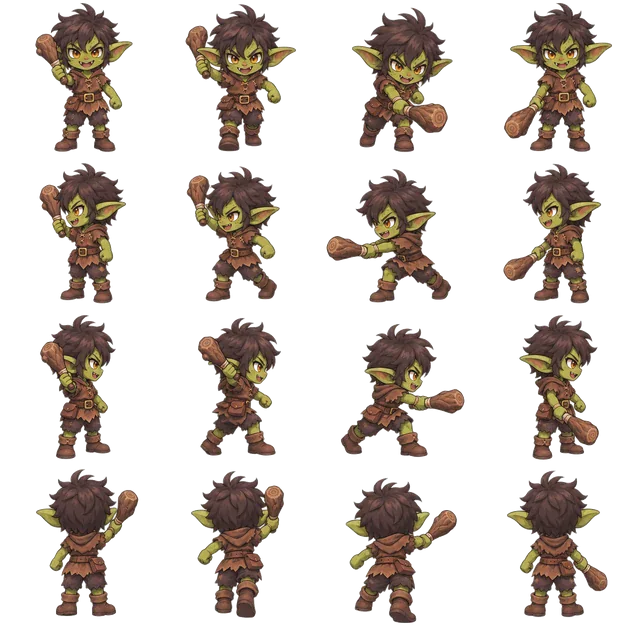
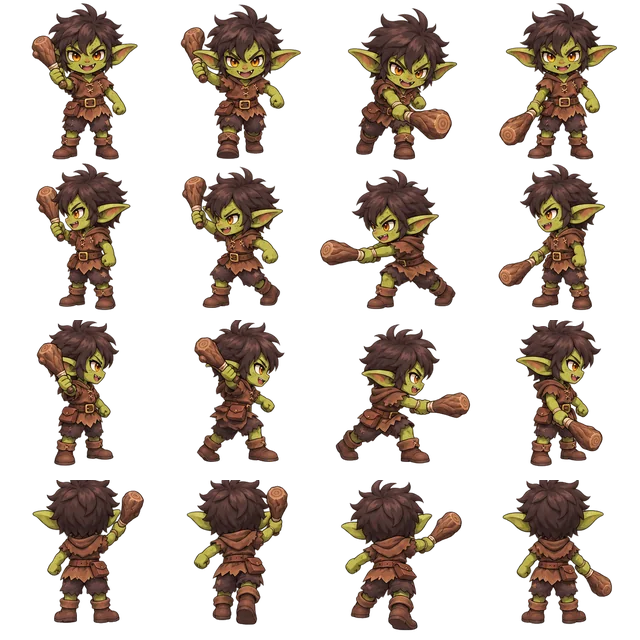
Orvalis v0.93.8: goblins com folha de ataque nova
Refaz a folha de ataque a partir da imagem enviada, em WebP, e unifica a altura
de quadro (GOBLIN_H) nas sete folhas: acaba o pulo de ~4 px ao atacar.

Claude-Session: https://claude.ai/code/session_01KGdgomm438trDHTLPLqJmv

diff --git a/src/render/character.ts b/src/render/character.ts
@@ -14,7 +14,7 @@ const ROW: Record<Facing, number> = { down: 0, left: 1, right: 2, up: 3 };
 
 /** Altura desenhada da heroína em pixels de mundo (~2,2 células). */
 export const CHARACTER_H = TILE * 2.2;
-/** Altura de quadro das folhas novas do goblin (v0.93.6): o desenho ocupa ~95% do quadro, então 0,94 × 1,7 mantém o tamanho em tela de antes. */
+/** Altura de quadro das folhas do goblin: o desenho ocupa ~95% do quadro, então 0,94 × 1,7 mantém o tamanho em tela da arte antiga. */
 const GOBLIN_H = TILE * 1.6;
 
 /** Altura desenhada (px de mundo) de um ator: lida pela cena de escala (ADR 0022) e pelos testes. */
@@ -158,9 +158,8 @@ const SPECS: Record<ActorKind, SheetSpec> = {
   'wolf-brown': { cols: 4, rows: 4, height: TILE * 1.3, shadow: [0.5, 0.16], walkFps: 9 },
   'wolf-gray': { cols: 4, rows: 4, height: TILE * 1.3, shadow: [0.5, 0.16], walkFps: 9 },
   'wolf-white': { cols: 4, rows: 4, height: TILE * 1.3, shadow: [0.5, 0.16], walkFps: 9 },
-  // Goblin: 4×4 sheets in the canonical order (front, left, right, back). The v0.93.6 sheets (idle, walk, run, alert,
-  // hurt, death) fill ~95% of the frame with the feet on its base, so they use GOBLIN_H to keep the on-screen size of the
-  // earlier art; the attack sheet is still the older one (more padding) and keeps TILE * 1.7 until it is redone.
+  // Goblin: sete folhas 4×4 na ordem canônica (frente, esquerda, direita, costas), todas do mesmo padrão (v0.93.6–7): o
+  // desenho ocupa ~95% do quadro com os pés na base, e GOBLIN_H mantém o tamanho em tela da arte anterior.
   goblin: { cols: 4, rows: 4, height: GOBLIN_H, shadow: [0.38, 0.13],
     walkFps: 7, death: { cols: 4, rows: 4, ratio: 1 } },
   'goblin-idle': { cols: 4, rows: 4, height: TILE * 1.7, shadow: [0.38, 0.13],
@@ -169,7 +168,7 @@ const SPECS: Record<ActorKind, SheetSpec> = {
     walkFps: 11 },
   'goblin-alert': { cols: 4, rows: 4, height: TILE * 1.7, shadow: [0.38, 0.13],
     walkFps: 0, action: true },
-  'goblin-attack': { cols: 4, rows: 4, height: TILE * 1.7, shadow: [0.38, 0.13],
+  'goblin-attack': { cols: 4, rows: 4, height: GOBLIN_H, shadow: [0.38, 0.13],
     walkFps: 0, action: true },
   'goblin-hurt': { cols: 4, rows: 4, height: TILE * 1.7, shadow: [0.38, 0.13],
     walkFps: 0, action: true },

diff --git a/docs/CHANGELOG.md b/docs/CHANGELOG.md
@@ -1,5 +1,10 @@
 # Changelog
 
+## Orvalis v0.93.8 — Goblins: folha de ataque nova (12/11/2026)
+- **Folha de ataque refeita** a partir da imagem enviada (`assets-src/goblin/attack.png`; `process-sprite.py --alpha --largest --frame-h 160` → `optimize-assets.py`, WebP). Agora as sete folhas do goblin seguem o mesmo padrão e todas usam `GOBLIN_H` (acaba o "pulo" de ~4 px ao atacar).
+- Só a ponta do cajado em um quadro (esquerda, 3º) encosta na borda do quadro (7 px de altura na folha de 160): invisível em jogo.
+- Sem mudança de jogo, protocolo ou save.
+
 ## Orvalis v0.93.7 — Goblins soltam 2 moedas de cobre (12/11/2026)
 - **Item novo:** Moeda de Cobre (`Item.COPPER_COIN`, `loot: true`, ícone `icon-copper-coin.webp` a partir da arte enviada pelo dono do produto, `assets-src/moeda-cobre.png`). Sem uso ainda (futuras lojas e trocas).
 - **Espólio do goblin:** `monsterDrops('goblin')` devolve sempre 2 moedas (`GOBLIN_COIN_DROP`, fixo, sem sorteio), no jogo e na sala (os dois usam `monsterDrops`). Substitui o `[]` provisório.

diff --git a/docs/CURRENT_STATE.md b/docs/CURRENT_STATE.md
@@ -1,6 +1,6 @@
 # Estado atual
 
-_Atualizado em 2026-11-12 — v0.93.7 · jogo: **Orvalis** (`orvalis.pensamentos.online`)_
+_Atualizado em 2026-11-12 — v0.93.8 · jogo: **Orvalis** (`orvalis.pensamentos.online`)_
 
 Este documento descreve **só o que existe hoje**. O histórico por entrega está no [`CHANGELOG`](CHANGELOG.md); o diário
 técnico antigo (até a v0.80.0, com nomes de funções e versões de protocolo/salvamento) está em
@@ -10,7 +10,7 @@ uma seção por versão) e registre a mudança no `CHANGELOG`.
 ## Versões e números de referência
 | Item | Valor | Fonte |
 |---|---|---|
-| Versão do jogo | 0.93.7 | `package.json` |
+| Versão do jogo | 0.93.8 | `package.json` |
 | `PROTOCOL_VERSION` (multiplayer) | 20 | `src/net/protocol.ts` |
 | `SAVE_VERSION` (salvamento local) | 14 | `src/game/save.ts` |
 | Testes | Vitest e verificação automática no GitHub Actions | `npm test` |

diff --git a/docs/NEXT_STEPS.md b/docs/NEXT_STEPS.md
@@ -35,7 +35,6 @@ primeiro**. Cada fase fecha com `tsc`, testes, captura de tela, docs e PR de ver
 4. **Fase 4 — objetos do Mundo:** árvores e plantações, portas e cercas, cidade, água e transições, dungeon, interiores.
 5. **Fase 5 — piloto** `?render=3d` (dev): checklist de paridade (capturas 2D × 3D), sala multiplayer, celular/tablet,
    WebGL no iframe do Artifact. 6. **Fase 6 — virada:** 3D padrão, 2D de reserva por uma versão, depois remover a duplicação.
-- **Goblin — folha de ataque:** a de ataque ainda é a antiga (menos resolução e mais folga no quadro, `height` `TILE * 1.7`); refazer no mesmo padrão das outras seis (`assets-src/goblin/attack.png`) e então unificar `GOBLIN_H`.
 - Física sólida no Mundo só entra no piloto, atrás de flag (muda a jogabilidade).
 
 ## Goblins do Mundo principal — PR #96
